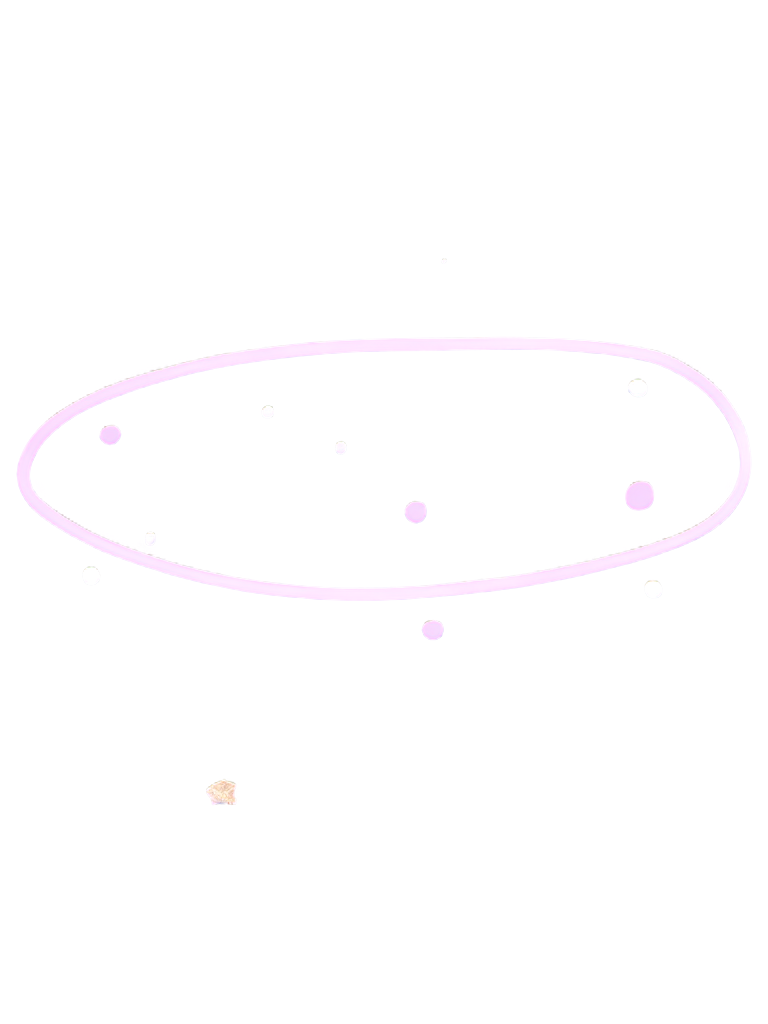
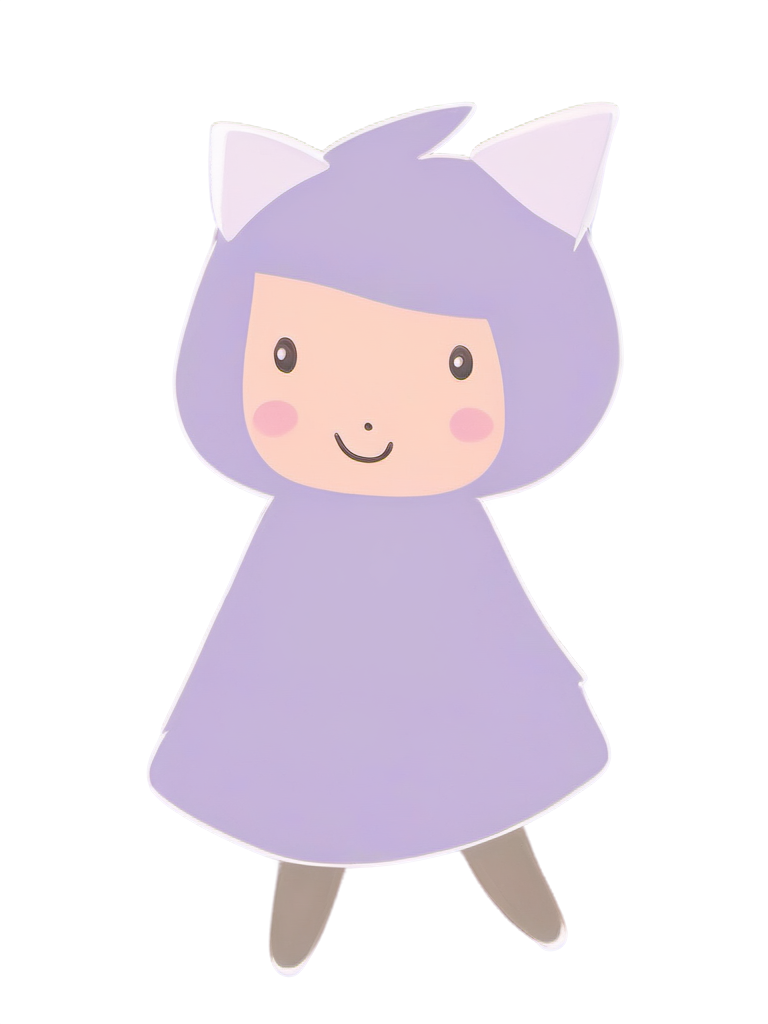
5009.1 — CH30_Large + CH32_Large 손상 fix (Auditor BROKEN 2건, 시드 +1 retry)
[Auditor 결과]
- PNG=251 damaged=2 v2_fallback=BROKEN
- CH30_Large.png transparent 96.6% (캐릭터 거의 없음)
- CH32_Large.png transparent 96.7% (캐릭터 거의 없음)

[수정 — sprite_generation_rules §7 auto-retry 패턴]
- CH30_Large: seed 77953 → 77954 (+1 retry) → transparent 62.8% rgb_std 22.0 ✅
- CH32_Large: seed 77965 → 77966 (+1 retry) → transparent 64.7% rgb_std 54.4 ✅

[검증]
- 두 PNG 모두 healthy 30~70% 통과
- Auditor 재실행 시 손상 0건 + V2 fallback OK 예상
- GUID 보존 → SO 재wiring 불필요

[5009 누적] 6 commit + 5009.1 fix = 7 commit / 210 PNG (모두 healthy)

diff --git a/docs/little_hero/enemy_sprite_audit_report.md b/docs/little_hero/enemy_sprite_audit_report.md
@@ -1,0 +1,26 @@
+# Enemy Sprite Audit Report
+
+> Generated by EnemySpriteAuditor (5008). Total PNG: 251. Damaged: 2. V2 fallback: **BROKEN**
+> Healthy sticker range: 30 %~70 % transparent pixels. Damage threshold: <5 % or >95 %.
+
+## Category Summary
+
+| Category | Total | Healthy (30~70%) | Damaged |
+|---|---:|---:|---:|
+| Animal | 6 | 4 | 0 |
+| Civ | 6 | 3 | 0 |
+| Fantasy | 6 | 3 | 0 |
+| Meta | 6 | 4 | 0 |
+| Nature | 6 | 3 | 0 |
+| ChapterOverride | 210 | 117 | 2 |
+| V1 | 11 | 9 | 0 |
+
+## Damaged PNG List
+
+- `Assets/_Project/Art/Generated_v2/Enemies/Chapters/CH30_Large.png` — transparent 96.6 % (ChapterOverride)
+- `Assets/_Project/Art/Generated_v2/Enemies/Chapters/CH32_Large.png` — transparent 96.7 % (ChapterOverride)
+
+## V2 Archetype Fallback Decision (D2=C)
+
+- **fallback BROKEN** — 손상 sprite 가 EnemyData.icon 으로 참조됨.
+- 결정: Sprint 5.5 활성화 권장. 손상 chapter override 즉시 재생성 필요.
